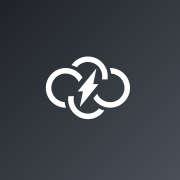
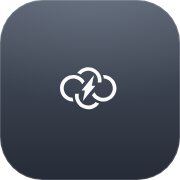
feat: refresh app and auth branding with dock-style gradient
Update auth background styling and regenerate favicon/PWA icon sets to use the Bolt cloud mark on a darker terminal-inspired gradient, including cache-busted v6 icon references for reliable dock/app refresh.

diff --git a/client/src/components/Auth/AuthLayout.tsx b/client/src/components/Auth/AuthLayout.tsx
@@ -25,6 +25,11 @@ function AuthLayout({
   error: TranslationKeys | null;
 }) {
   const localize = useLocalize();
+  const terminalGradientStyle = {
+    backgroundColor: '#020202',
+    backgroundImage:
+      'radial-gradient(125% 90% at 50% -10%, rgba(64, 64, 64, 0.48) 0%, rgba(20, 20, 20, 0.2) 40%, rgba(4, 4, 4, 0.97) 70%), linear-gradient(180deg, #212121 0%, #090909 38%, #020202 100%)',
+  };
 
   const hasStartupConfigError = startupConfigError !== null && startupConfigError !== undefined;
   const DisplayError = () => {
@@ -57,13 +62,16 @@ function AuthLayout({
   };
 
   return (
-    <div className="relative flex min-h-screen flex-col bg-white dark:bg-gray-900">
+    <div className="relative flex min-h-screen flex-col overflow-hidden" style={terminalGradientStyle}>
+      <div className="pointer-events-none absolute inset-0 flex items-start justify-center" aria-hidden="true">
+        <img src="assets/logo.svg" className="mt-10 h-24 w-24 opacity-15" alt="" />
+      </div>
       <Banner />
       <BlinkAnimation active={isFetching}>
-        <div className="mt-6 h-10 w-full bg-cover">
+        <div className="mt-6 flex h-10 w-full items-center justify-center">
           <img
             src="assets/logo.svg"
-            className="h-full w-full object-contain"
+            className="h-7 w-7 object-contain opacity-85"
             alt={localize('com_ui_logo', { 0: startupConfig?.appTitle ?? 'Bolt App' })}
           />
         </div>
@@ -74,10 +82,10 @@ function AuthLayout({
       </div>
 
       <main className="flex flex-grow items-center justify-center">
-        <div className="w-authPageWidth overflow-hidden bg-white px-6 py-4 dark:bg-gray-900 sm:max-w-md sm:rounded-lg">
+        <div className="w-authPageWidth overflow-hidden rounded-2xl border border-white/10 bg-black/45 px-6 py-4 shadow-[0_24px_60px_rgba(0,0,0,0.55)] backdrop-blur-sm sm:max-w-md">
           {!hasStartupConfigError && !isFetching && header && (
             <h1
-              className="mb-4 text-center text-3xl font-semibold text-black dark:text-white"
+              className="mb-4 text-center text-3xl font-semibold text-white"
               style={{ userSelect: 'none' }}
             >
               {header}

diff --git a/client/vite.config.ts b/client/vite.config.ts
@@ -71,32 +71,32 @@ export default defineConfig(({ command }) => ({
         theme_color: '#009688',
         icons: [
           {
-            src: 'assets/favicon-32x32-v5.png',
+            src: 'assets/favicon-32x32-v6.png',
             sizes: '32x32',
             type: 'image/png',
           },
           {
-            src: 'assets/favicon-16x16-v5.png',
+            src: 'assets/favicon-16x16-v6.png',
             sizes: '16x16',
             type: 'image/png',
           },
           {
-            src: 'assets/apple-touch-icon-180x180-v5.png',
+            src: 'assets/apple-touch-icon-180x180-v6.png',
             sizes: '180x180',
             type: 'image/png',
           },
           {
-            src: 'assets/icon-192x192-v5.png',
+            src: 'assets/icon-192x192-v6.png',
             sizes: '192x192',
             type: 'image/png',
           },
           {
-            src: 'assets/icon-512x512-v5.png',
+            src: 'assets/icon-512x512-v6.png',
             sizes: '512x512',
             type: 'image/png',
           },
           {
-            src: 'assets/maskable-icon-v5.png',
+            src: 'assets/maskable-icon-v6.png',
             sizes: '512x512',
             type: 'image/png',
             purpose: 'maskable',

diff --git a/client/index.html b/client/index.html
@@ -9,10 +9,10 @@
     <meta name="apple-mobile-web-app-status-bar-style" content="black-translucent" />
     <meta name="description" content="Bolt App - An AI chat application with support for multiple models" />
     <title>Bolt App</title>
-    <link rel="icon" type="image/svg+xml" href="assets/bolt-favicon.svg?v=3" />
-    <link rel="icon" type="image/png" sizes="32x32" href="assets/favicon-32x32-v3.png" />
-    <link rel="icon" type="image/png" sizes="16x16" href="assets/favicon-16x16-v3.png" />
-    <link rel="apple-touch-icon" href="assets/apple-touch-icon-180x180-v3.png" />
+    <link rel="icon" type="image/svg+xml" href="assets/bolt-favicon.svg?v=4" />
+    <link rel="icon" type="image/png" sizes="32x32" href="assets/favicon-32x32-v6.png" />
+    <link rel="icon" type="image/png" sizes="16x16" href="assets/favicon-16x16-v6.png" />
+    <link rel="apple-touch-icon" href="assets/apple-touch-icon-180x180-v6.png" />
     <meta name="viewport" content="width=device-width, initial-scale=1, interactive-widget=resizes-content" />
     <style>
       html,
